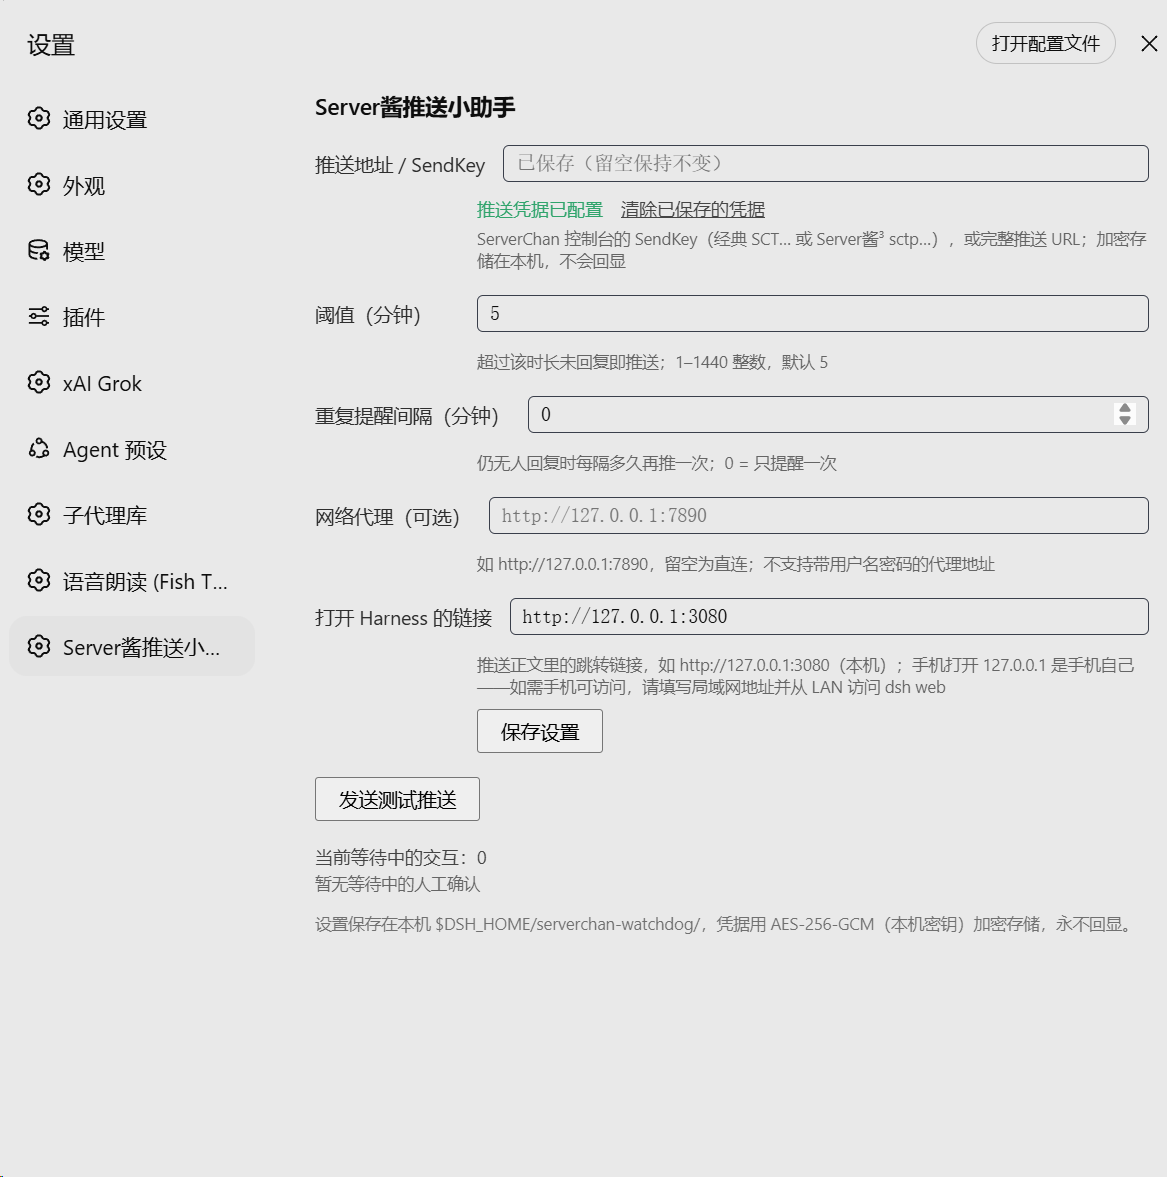
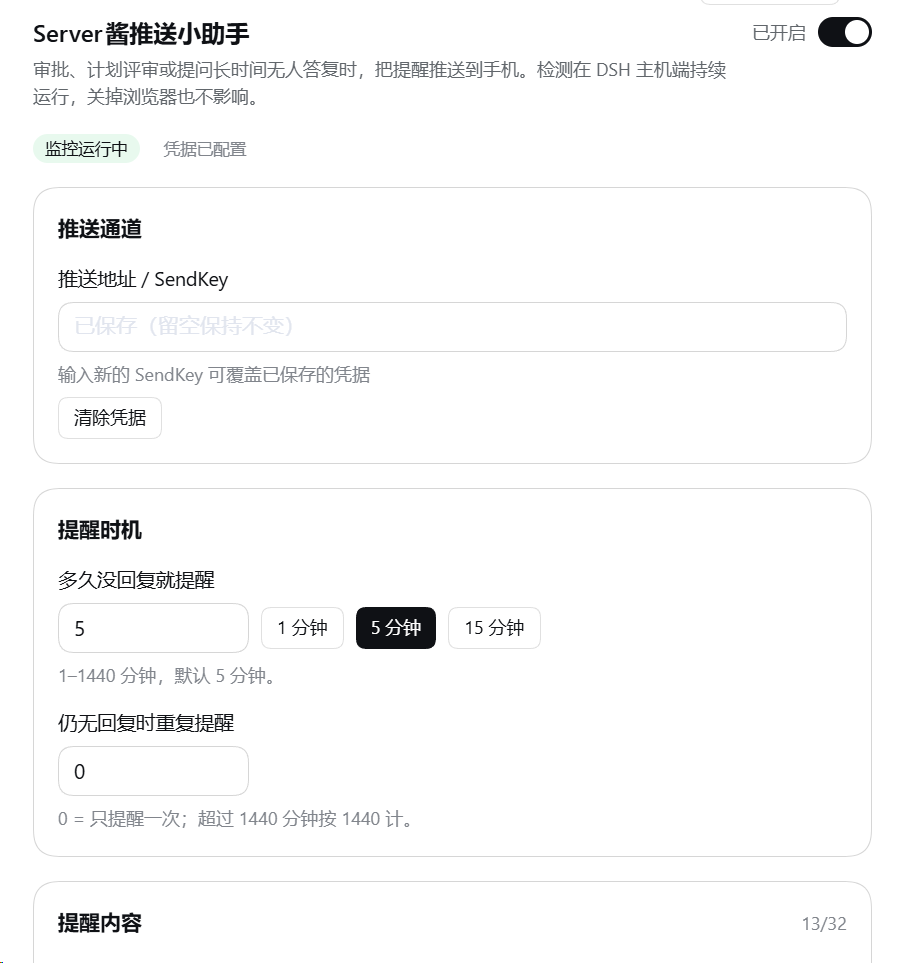
docs: refresh settings screenshot and release notes

diff --git a/README.en.md b/README.en.md
@@ -38,8 +38,8 @@ The default threshold is five minutes and one successful alert per interaction. 
 ## Screenshot
 
 <p align="center">
-  <img src="./assets/readme/settings.png" width="760" alt="ServerChan alerts settings: SendKey, threshold, repeat interval, proxy, and Harness link" /><br>
-  <em>Configure the push credential, reminder timing, optional proxy, and Harness link, then send a test alert. Every <code>127.0.0.1</code> value shown is a local loopback example; since 0.1.5 the jump link is empty by default. A stored SendKey is never echoed. The screenshot predates the redesign; see the 0.2.0 notes for the current layout.</em>
+  <img src="./assets/readme/settings.png" width="760" alt="Rebuilt ServerChan settings: master switch, push channel and reminder timing" /><br>
+  <em>The top of the settings page shows the master switch and live status, with separate cards for credentials and reminder timing. A stored SendKey is never echoed. Further cards cover the message, jump link, network and pending queue.</em>
 </p>
 
 ## Host and desktop compatibility

diff --git a/README.md b/README.md
@@ -38,8 +38,8 @@
 ## 界面截图
 
 <p align="center">
-  <img src="./assets/readme/settings.png" width="760" alt="Server酱推送小助手设置页：SendKey、提醒阈值、重复间隔、代理和 Harness 链接" /><br>
-  <em>设置页：配置推送凭据、提醒节奏、可选代理和 Harness 跳转链接，并可发送测试推送。图中的 <code>127.0.0.1</code> 均为本机回环示例；0.1.5 起跳转链接默认留空。已保存的 SendKey 不会回显。截图对应重构前的界面，新界面见 0.2.0 更新说明。</em>
+  <img src="./assets/readme/settings.png" width="760" alt="Server酱推送小助手新设置页：总开关、推送通道和提醒时机" /><br>
+  <em>设置页上半部分：总开关与运行状态一目了然，推送通道和提醒时机分卡片配置；已保存的 SendKey 不会回显。其余卡片可设置提醒文案、跳转链接和网络，并查看等待队列。</em>
 </p>
 
 ## 宿主与桌面端兼容

diff --git a/CHANGELOG.md b/CHANGELOG.md
@@ -1,6 +1,6 @@
 # 更新记录 / Changelog
 
-## 0.2.0（2026-10-05）
+## 0.2.0（2026-10-07）
 
 ### 设置页面重做 / Settings page rebuilt
 
